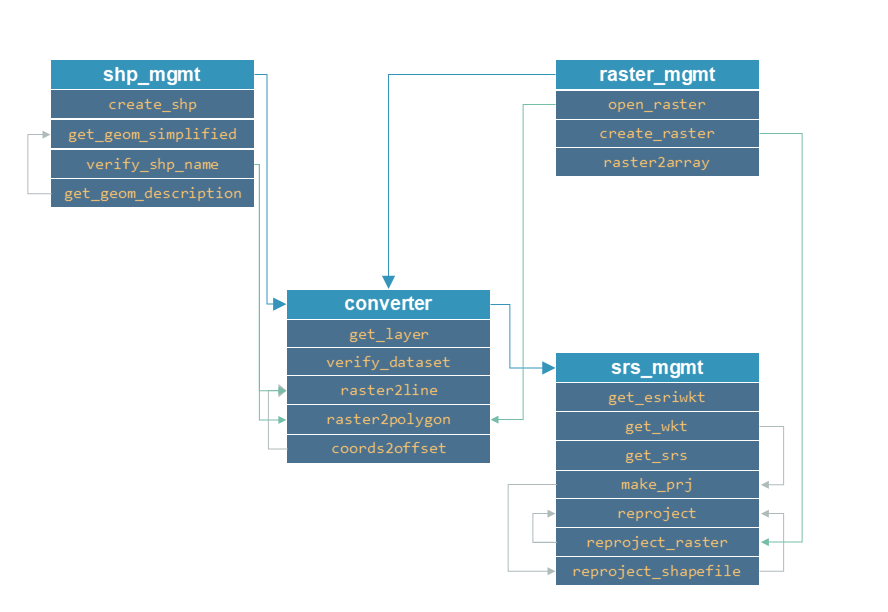
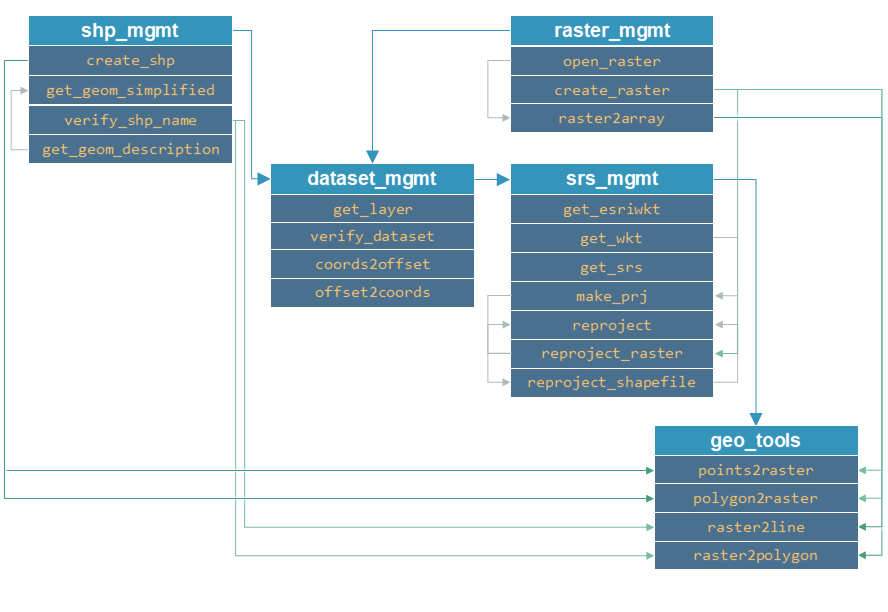
re-arranged package

diff --git a/geo_utils/geo_tools.py b/geo_utils/geo_tools.py
@@ -1,73 +1,6 @@
-from raster_mgmt import *
-from shp_mgmt import *
+from srs_mgmt import *
 import itertools
 gdal.UseExceptions()
-
-
-def coords2offset(geo_transform, x_coord, y_coord):
-    """
-    Returns x-y pixel offset (inverse of offset2coords function)
-    :param geo_transform: osgeo.gdal.Dataset.GetGeoTransform() object
-    :param x_coord: FLOAT of x-coordinate
-    :param y_coord: FLOAT of y-coordinate
-    :return: offset_x, offset_y (both integer of pixel numbers)
-    """
-    try:
-        origin_x = geo_transform[0]
-        origin_y = geo_transform[3]
-        pixel_width = geo_transform[1]
-        pixel_height = geo_transform[5]
-    except IndexError:
-        print("ERROR: Invalid geo_transform object (%s)." % str(geo_transform))
-        return None
-
-    try:
-        offset_x = int((x_coord - origin_x) / pixel_width)
-        offset_y = int((y_coord - origin_y) / pixel_height)
-    except ValueError:
-        print("ERROR: geo_transform tuple contains non-numeric data: %s" % str(geo_transform))
-        return None
-    return offset_x, offset_y
-
-
-def get_layer(dataset, band_number=1):
-    """
-    Get a layer=band (RasterDataSet) or layer=ogr.Dataset.Layer() of any dataset
-    :param dataset: osgeo.gdal.Dataset or osgeo.ogr.DataSource
-    :param band_number: ONLY FOR RASTERS - INT of the raster band number to open (default: 1)
-    :output: DICT {GEO-TYPE: if raster: raster_band, if vector: GetLayer(), else: None}
-    """
-    if verify_dataset(dataset) == "raster":
-        return {"type": "raster", "layer": dataset.GetRasterBand(band_number)}
-    if verify_dataset(dataset) == "vector":
-        return {"type": "vector", "layer":  dataset.GetLayer()}
-    return {"type": "None", "layer": None}
-
-
-def offset2coords(geo_transform, offset_x, offset_y):
-    """
-    Returns x-y coordinates from pixel offset (inverse of coords2offset function)
-    :param geo_transform: osgeo.gdal.Dataset.GetGeoTransform() object
-    :param offset_x: integer of x pixel numbers
-    :param offset_y: integer of y pixel numbers
-    :return: x_coord, y_coord (FLOATs of x-y-coordinates)
-    """
-    try:
-        origin_x = geo_transform[0]
-        origin_y = geo_transform[3]
-        pixel_width = geo_transform[1]
-        pixel_height = geo_transform[5]
-    except IndexError:
-        print("ERROR: Invalid geo_transform object (%s)." % str(geo_transform))
-        return None
-
-    try:
-        coord_x = origin_x + pixel_width * offset_x
-        coord_y = origin_y + pixel_height * offset_y
-    except ValueError:
-        print("ERROR: geo_transform tuple contains non-numeric data: %s" % str(geo_transform))
-        return None
-    return coord_x, coord_y
 
 
 def raster2line(raster_file_name, out_shp_fn, pixel_value):
@@ -81,25 +14,27 @@ def raster2line(raster_file_name, out_shp_fn, pixel_value):
 
     # calculate max. distance between points
     # ensures correct neighbourhoods for start and end pts of lines
-    raster, array, geo_transform = open_raster(raster_file_name)
+    raster, array, geo_transform = raster2array(raster_file_name)
     pixel_width = geo_transform[1]
     max_distance = np.ceil(np.sqrt(2 * pixel_width**2))
 
-    # convert raster array to points dict
-    count = 0
-    trajectory = np.where(array == pixel_value)  # nested list
+    # extract pixels with the user-defined pixel value from the raster array
+    trajectory = np.where(array == pixel_value)
     if np.count_nonzero(trajectory) is 0:
         print("ERROR: The defined pixel_value (%s) does not occur in the raster band." % str(pixel_value))
         return None
-    pts_dict = {}
+
+    # convert pixel offset to coordinates and append to nested list of points
+    points = []
+    count = 0
     for offset_y in trajectory[0]:
         offset_x = trajectory[1][count]
-        pts_dict[count] = offset2coords(geo_transform, offset_x, offset_y)
+        points.append(offset2coords(geo_transform, offset_x, offset_y))
         count += 1
 
     # create multiline (write points dictionary to line geometry (wkbMultiLineString)
     multi_line = ogr.Geometry(ogr.wkbMultiLineString)
-    for i in itertools.combinations(pts_dict.values(), 2):
+    for i in itertools.combinations(points, 2):
         point1 = ogr.Geometry(ogr.wkbPoint)
         point1.AddPoint(i[0][0], i[0][1])
         point2 = ogr.Geometry(ogr.wkbPoint)
@@ -119,6 +54,10 @@ def raster2line(raster_file_name, out_shp_fn, pixel_value):
     new_line_feat = ogr.Feature(feature_def)
     new_line_feat.SetGeometry(multi_line)
     lyr.CreateFeature(new_line_feat)
+
+    # create projection file
+    srs = get_srs(raster)
+    make_prj(out_shp_fn, int(srs.GetAuthorityCode(None)))
     print("Success: Wrote %s" % str(out_shp_fn))
 
 

diff --git a/geo_utils/dataset_mgmt.py b/geo_utils/dataset_mgmt.py
@@ -1,0 +1,89 @@
+from raster_mgmt import *
+from shp_mgmt import *
+gdal.UseExceptions()
+
+
+def coords2offset(geo_transform, x_coord, y_coord):
+    """
+    Returns x-y pixel offset (inverse of offset2coords function)
+    :param geo_transform: osgeo.gdal.Dataset.GetGeoTransform() object
+    :param x_coord: FLOAT of x-coordinate
+    :param y_coord: FLOAT of y-coordinate
+    :return: offset_x, offset_y (both integer of pixel numbers)
+    """
+    try:
+        origin_x = geo_transform[0]
+        origin_y = geo_transform[3]
+        pixel_width = geo_transform[1]
+        pixel_height = geo_transform[5]
+    except IndexError:
+        print("ERROR: Invalid geo_transform object (%s)." % str(geo_transform))
+        return None
+
+    try:
+        offset_x = int((x_coord - origin_x) / pixel_width)
+        offset_y = int((y_coord - origin_y) / pixel_height)
+    except ValueError:
+        print("ERROR: geo_transform tuple contains non-numeric data: %s" % str(geo_transform))
+        return None
+    return offset_x, offset_y
+
+
+def get_layer(dataset, band_number=1):
+    """
+    Get a layer=band (RasterDataSet) or layer=ogr.Dataset.Layer() of any dataset
+    :param dataset: osgeo.gdal.Dataset or osgeo.ogr.DataSource
+    :param band_number: ONLY FOR RASTERS - INT of the raster band number to open (default: 1)
+    :output: DICT {GEO-TYPE: if raster: raster_band, if vector: GetLayer(), else: None}
+    """
+    if verify_dataset(dataset) == "raster":
+        return {"type": "raster", "layer": dataset.GetRasterBand(band_number)}
+    if verify_dataset(dataset) == "vector":
+        return {"type": "vector", "layer":  dataset.GetLayer()}
+    return {"type": "None", "layer": None}
+
+
+def offset2coords(geo_transform, offset_x, offset_y):
+    """
+    Returns x-y coordinates from pixel offset (inverse of coords2offset function)
+    :param geo_transform: osgeo.gdal.Dataset.GetGeoTransform() object
+    :param offset_x: integer of x pixel numbers
+    :param offset_y: integer of y pixel numbers
+    :return: x_coord, y_coord (FLOATs of x-y-coordinates)
+    """
+    try:
+        origin_x = geo_transform[0]
+        origin_y = geo_transform[3]
+        pixel_width = geo_transform[1]
+        pixel_height = geo_transform[5]
+    except IndexError:
+        print("ERROR: Invalid geo_transform object (%s)." % str(geo_transform))
+        return None
+
+    try:
+        coord_x = origin_x + pixel_width * (offset_x + 0.5)
+        coord_y = origin_y + pixel_height * (offset_y + 0.5)
+    except ValueError:
+        print("ERROR: geo_transform tuple contains non-numeric data: %s" % str(geo_transform))
+        return None
+    return coord_x, coord_y
+
+
+def verify_dataset(dataset):
+    """
+    Verify if a dataset contains raster or vector data
+    :param dataset: osgeo.gdal.Dataset or osgeo.ogr.DataSource
+    :return: String (either "mixed", "raster", or "vector")
+    """
+    # Check the contents of an osgeo.gdal.Dataset
+    try:
+        if dataset.RasterCount > 0 and dataset.GetLayerCount() > 0:
+            return "mixed"
+        elif dataset.RasterCount > 0:
+            return "raster"
+        elif dataset.GetLayerCount() > 0:
+            return "vector"
+        else:
+            return "empty"
+    except AttributeError:
+        print("ERROR: %s is not an osgeo.gdal.Dataset object." % str(dataset))

diff --git a/geo_utils/srs_mgmt.py b/geo_utils/srs_mgmt.py
@@ -1,4 +1,4 @@
-from converter import *
+from dataset_mgmt import *
 import urllib
 
 
@@ -36,7 +36,6 @@ def get_srs(dataset):
     gdal.UseExceptions()
 
     if verify_dataset(dataset) == "raster":
-        print("is a raster")
         sr = osr.SpatialReference()
         sr.ImportFromWkt(dataset.GetProjection())
     else:
@@ -92,7 +91,8 @@ def make_prj(shp_file_name, epsg):
 
 def reproject(source_dataset, new_projection_dataset):
     """
-    Re-project a raster onto the spatial reference system of a (shapefile) layer
+    Re-project a dataset (raster or shapefile) onto the spatial reference system
+    of a (shapefile or raster) layer
     :param source_dataset: gdal.Dataset (shapefile or raster)
     :param new_projection_dataset: gdal.Dataset (shapefile or raster) with new projection info
     :output: if source==raster: GeoTIFF in same directory as source with "_reprojected"

diff --git a/geo_utils/__init__.py b/geo_utils/__init__.py
@@ -1,5 +1,5 @@
 import sys, os
 sys.path.append(r'' + os.path.abspath(''))
-__all__ = ['srs_mgmt', 'shp_mgmt', 'raster_mgmt', 'converter']
+__all__ = ['srs_mgmt', 'shp_mgmt', 'raster_mgmt', 'dataset_mgmt', 'geo_tools']
 
-from srs_mgmt import *
+from geo_tools import *

diff --git a/README.md b/README.md
@@ -55,7 +55,8 @@ print(geo_transform)
 * `srs_mgmt`: Manage projections and spatial reference systems of raster and vector datasets
 * `shp_mgmt`: Create shapefiles (vector data).
 * `raster_mgmt`: Open and create raster datasets, and convert raster bands to a *numpy* array.
-* `converter`: Universal functions for interactions between raster and vector data sets.
+* `dataset_mgmt`:  Inherits functions from `shp_mgmt` and `raster_mgmt`, and provides universal layer and geospatialization functions. 
+* `geo_tools`: Universal functions to convert raster to vector datasets and vice versa.
 
 
 ## Manage shapefiles (vector data)
@@ -227,9 +228,9 @@ Re-project any raster or vector dataset to the projection and spatial reference 
 Output: None (creates a new shapefile or raster in the directory of the `source_dataset`).
 
 
-## Dataset conversion (raster and vector interaction) 
+## Dataset management (general functions for raster and vector datasets) 
 
-The methods provided with `converter` are: 
+The methods provided with `dataset_mgmt` are: 
 * `coords2offset` converts x-y coordinates to a pixel offset relative to the origin of the spatial reference used.
 * `get_layer` gets a layer of any dataset (raster or vector); if raster(osgeo.gdal.Dataset): layer=osgeo.gdal.Band; if vector (osgeo.ogr.DataSource): layer=osgeo.ogr.Layer' (useful for automation and data verification).
 * `offset2coords` is the inverse function of `coords2offset` and converts x-y pixel offset to x-y coordinates to relative to the origin of the spatial reference used.
@@ -270,6 +271,15 @@ Usage: `verify_dataset(dataset)`
 
 Output: String (either `"mixed"`, `"raster"`, or `"vector"`). 
 
+## Dataset conversion
+
+Convert rasters to shapefiles and vice versa. 
+
+The methods provided with `geo_tools` are: 
+* `raster2line` converts a raster to a line vector dataset based on a user-specific value of pixels to connect. 
+* `raster2polygon` converts a raster to a polygon vector dataset.
+* `points2raster` converts a points or a point shapefile to raster dataset. 
+* `polygon2raster` converts a polygon shapefile to a raster dataset.  
 
 ### Convert raster to line shapefile
 Convert a raster to a line shapefile based on a user-specific value of pixels (`pixel_value`) to connect.<br>
@@ -296,4 +306,8 @@ Usage: `raster2polygon(file_name, band_number=1, out_shp_fn="", layer_name="base
 
 Output: None (produces a polygon shapefile with `gdal.Polygonize`, with the name define in the `out_shp_fn` argument).
 
-### More to follow...
+### Points to raster
+To be implemented...
+
+### Polygon to raster
+To be implemented...
